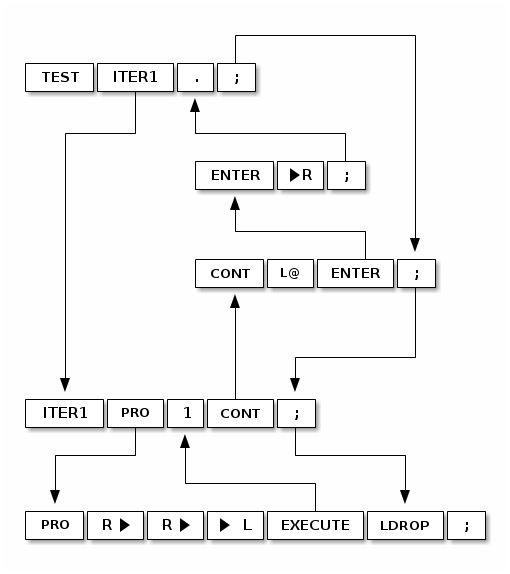
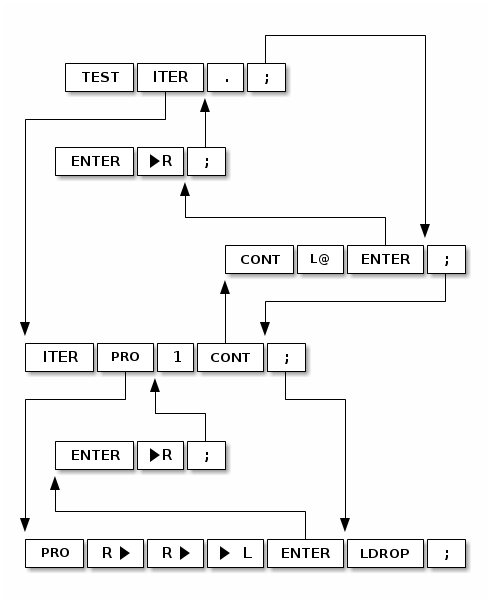
forth: call/cc fin

Changed region(s): [[0.0306, 0.0592, 0.9796, 0.9477], [0.7041, 0.77, 0.7347, 0.7997], [0.0306, 0.5331, 0.0612, 0.5627]]

diff --git a/www/lrn/forth/jonesforth-2.html b/www/lrn/forth/jonesforth-2.html
@@ -4166,103 +4166,7 @@ END-CODE   <span style="color: #af0000;">\ &#1079;&#1072;&#1074;&#1077;&#1088;&#
 <div class="outline-text-3" id="text-1-31">
 <p>
 Чтобы обеспечить сохранение продолжений нам нужен специальный стек продолжений, назовем
-его <code>стек L</code>. На вершину этого стека будет указывать <code>L@</code>, также мы имеем слова,
-предназначенные для работы с этим стеком: <code>&gt;L</code> и <code>L&gt;</code>.
-</p>
-
-<p>
-Для того чтобы сохранить продолжение у нас есть слово PRO:
-</p>
-
-<div class="org-src-container">
-
-<pre class="src src-forth" id="call/cc_PRO">: PRO R&gt; R&gt; &gt;L EXECUTE LDROP <span style="color: #af00ff;">;</span>
-</pre>
-</div>
-
-<p>
-Это слово работает так: Оно снимает со стека возвратов два адреса:
-</p>
-<ul class="org-ul">
-<li>адрес возврата из <code>PRO</code>, назовем его <code>#1</code>
-</li>
-<li>адрес возврата из слова, которое вызвало <code>PRO</code>, назовем его <code>#2</code>
-</li>
-</ul>
-
-<p>
-Это <code>#2</code> оно кладет на стек <code>L</code>, стек продолжений. После этого <code>#1</code> вызывается с
-помощью EXECUTE, таким образом мы осуществляем возврат из слова PRO.
-</p>
-
-<p>
-Дальше у нас есть слово <code>ITER1</code>, которое использует <code>PRO</code> и содержит в себе вызов
-<code>CONT</code>
-</p>
-
-<div class="org-src-container">
-
-<pre class="src src-forth" id="call/cc_ITER1">: ITER1 PRO 1 CONT <span style="color: #af00ff;">;</span>
-</pre>
-</div>
-
-<p>
-Что же такое CONT? А вот что:
-</p>
-
-<div class="org-src-container">
-
-<pre class="src src-forth" id="call/cc_CONT">: CONT L@ EXECUTE <span style="color: #af00ff;">;</span>
-</pre>
-</div>
-
-<p>
-Таким образом, если мы составим слово TEST вида:
-</p>
-
-<div class="org-src-container">
-
-<pre class="src src-forth" id="call/cc_TEST">: TEST ITER1 . <span style="color: #af00ff;">;</span>
-</pre>
-</div>
-
-<p>
-То произойдет вот что:
-</p>
-
-<p>
-<code>TEST</code> вызывает <code>ITER1</code>, оставляя на стеке возвратов адрес возврата <code>#2</code> на инструкцию
-"точка" в <code>TEST</code>.
-</p>
-
-<p>
-<code>ITER1</code> вызывает <code>PRO</code>, оставляя на стеке возвратов адрес возврата <code>#1</code>, на инструкцию
-<code>1</code>. в слове <code>ITER</code>.
-</p>
-
-<p>
-<code>PRO</code> кладет <code>#2</code> на стек продолжений, а <code>#1</code> запускает, после чего мы оказываемся в
-<code>ITER1</code>.
-</p>
-
-<p>
-Далее на стек данных кладется единица, после чего вызывается <code>CONT</code>, который берет
-продолжение с вершины стека <code>L</code>, и делает <code>EXECUTE</code>, попадая в инструкции "точка" слова
-<code>TEST</code>
-</p>
-
-<p>
-Все вместе реализует "вызов с текущим продолжением" на стеке <code>L</code> и вызов этого
-продолжения с помощью слова <code>CONT</code>.
-</p>
-
-<p>
-Вот поясняющая диаграмма:
-</p>
-
-<p>
-[TODO:gmm] В слове <code>CONT</code> видимо не <code>EXECUTE</code> а другое слово, умеющее помещать адрес
-на стек возврата.
+его <code>стек L</code>. Проследить за работой продолжений легче, если использовать диаграмму:
 </p>
 
 
@@ -4270,6 +4174,108 @@ END-CODE   <span style="color: #af0000;">\ &#1079;&#1072;&#1074;&#1077;&#1088;&#
 <p><img src="../../../img/forth-interpret-46.png" alt="forth-interpret-46.png">
 </p>
 </div>
+
+<p>
+Вот описание работы продолжений:
+</p>
+
+<p>
+Слово <code>TEST</code> вызывает <code>ITER</code>, оставляя на стеке возвратов адрес возврата на инструкцию
+"точка" в <code>TEST</code>, который мы обозначим как <code>ret-test-dot</code>:
+</p>
+<ul class="org-ul">
+<li>R: <code>ret-test-dot</code>
+</li>
+</ul>
+
+<p>
+<code>ITER</code> вызывает <code>PRO</code>, оставляя на стеке возвратов адрес возврата на инструкцию <code>1</code> в
+слове <code>ITER</code>, который мы обозначим как <code>ret-iter-one</code>.
+</p>
+<ul class="org-ul">
+<li>R: <code>ret-test-dot</code> <code>ret-iter-one</code>
+</li>
+</ul>
+
+<p>
+<code>PRO</code> снимает со стека возвратов (и кладет на стек данных) сначала <code>ret-iter-one</code>, а
+потом <code>ret-test-dot</code>, но <code>#ret-test-dot</code> сразу перемещается на стек <code>L</code>, а
+<code>ret-iter-one</code> становится аргументом следующей операции <code>ENTER</code>, которая снимает его со
+стека данных, перемещает на стек возвратов и прыгает на него при исполнении <code>EXIT</code>,
+т.е. "точки с запятой". Так мы оказываемся на вызове <code>1</code> слова <code>ITER</code>. На этом этапе
+<code>ret-iter-one</code> перестает существовать, а <code>ret-test-dot</code> лежит на стеке <code>#L</code>. На стеке
+возвратов лежит адрес возврата в <code>PRO</code>, указывающий на <code>LDROP</code>, потому что он был туда
+положен когда мы входили в слово <code>ENTER</code>:
+</p>
+<ul class="org-ul">
+<li>R: <code>ret-pro-ldrop</code>
+</li>
+<li>L: <code>ret-test-dot</code>
+</li>
+</ul>
+
+<p>
+Вызов <code>1</code> кладет на стек данных единицу. Стеки теперь выглядят так:
+</p>
+<ul class="org-ul">
+<li>R: <code>ret-pro-ldrop</code>
+</li>
+<li>L: <code>ret-test-dot</code>
+</li>
+<li>D: 1
+</li>
+</ul>
+
+<p>
+Вызывается <code>CONT</code>. Внутри <code>CONT</code> есть слово <code>L@</code> которое копирует <code>ret-test-dot</code> с вершины
+стека <code>L</code> на стек данных:
+</p>
+<ul class="org-ul">
+<li>R: <code>ret-pro-ldrop</code>
+</li>
+<li>L: <code>ret-test-dot</code>
+</li>
+<li>D: 1 <code>ret-test-dot</code>
+</li>
+</ul>
+
+<p>
+После этого вызывается ENTER. Его вызов приводит к сохранению адреса "точки с запятой"
+слова <code>CONT</code> в стек возвратов:
+</p>
+<ul class="org-ul">
+<li>R: <code>ret-pro-ldrop</code> <code>ret-iter-semicolon</code> <code>ret-cont-semicolon</code>
+</li>
+<li>L: <code>ret-test-dot</code>
+</li>
+<li>D: 1 <code>ret-test-dot</code>
+</li>
+</ul>
+
+<p>
+После чего <code>ENTER</code> отправляет адрес <code>ret-test-dot</code> со стека данных в стек возвратов, а потом
+его точка с запятой снимает <code>ret-test-dot</code> со стека возвратов и прыгает на него. Мы
+оказываемся на адресе инструкции "точка" слова <code>TEST</code>, а стеки выглядят так:
+</p>
+<ul class="org-ul">
+<li>R: <code>ret-pro-ldrop</code> <code>ret-iter-semicolon</code> <code>ret-cont-semicolon</code>
+</li>
+<li>L: <code>ret-test-dot</code>
+</li>
+<li>D: 1
+</li>
+</ul>
+
+<p>
+"Точка" снимает со стека единицу и выводит ее, но самое интересное происходит
+потом. Следующая инструкция <code>EXIT</code> ("точка с запятой" слова <code>TEST</code>)
+вызывает возврат на <code>EXIT</code> слова <code>CONT</code>, а он в свою очередь - на <code>EXIT</code> слова <code>ITER</code>,
+и в конце концов на <code>LDROP</code> слова <code>PRO</code>, который убирает "продолжение" со стека <code>L</code>
+</p>
+
+<p>
+Все вместе реализует "вызов с текущим продолжением" или call/cc
+</p>
 </div>
 </div>
 
